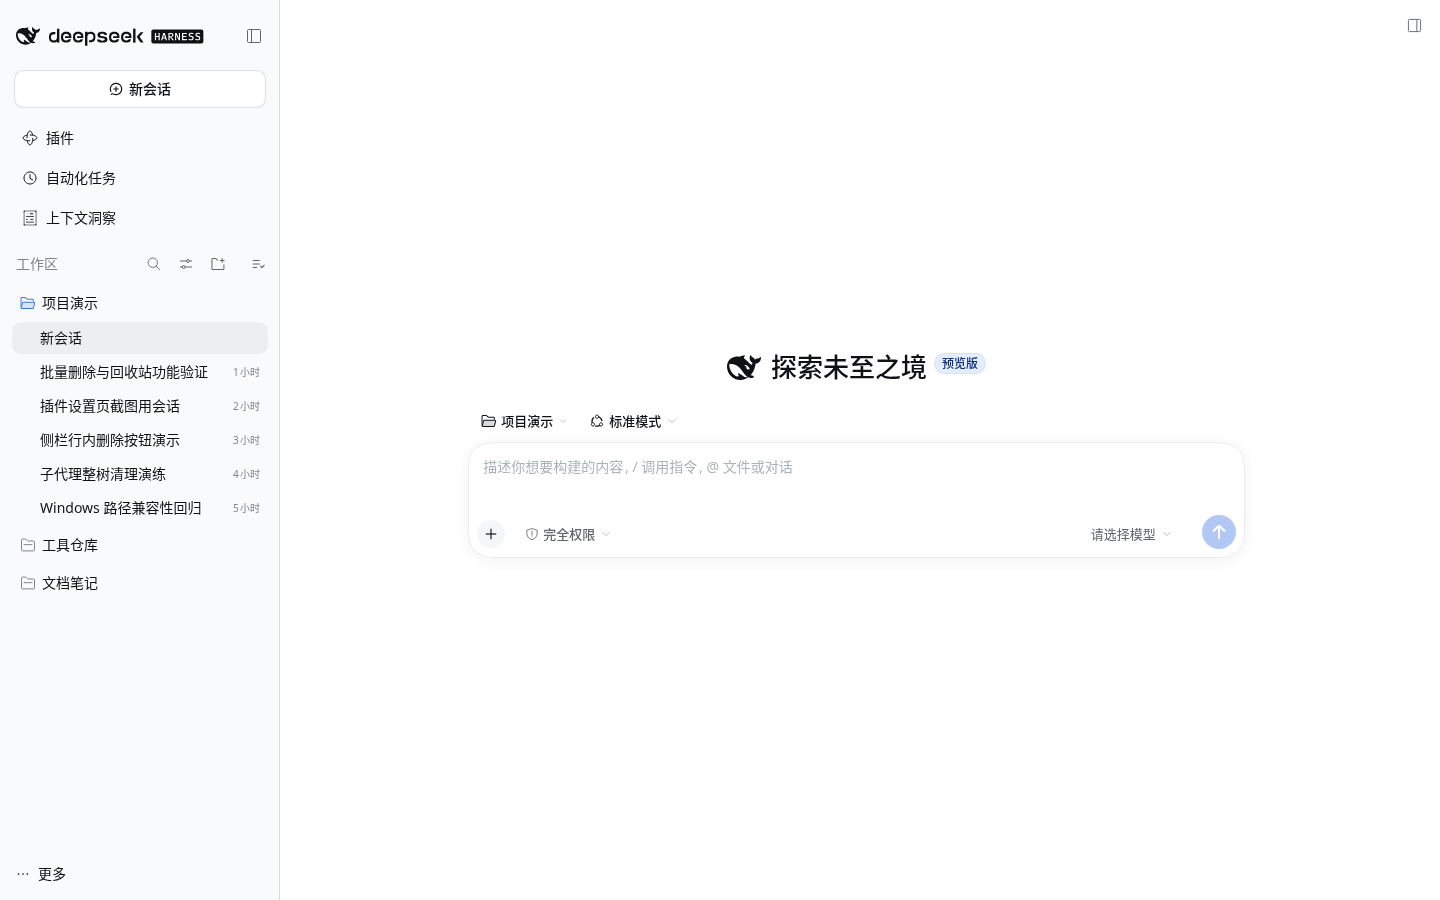
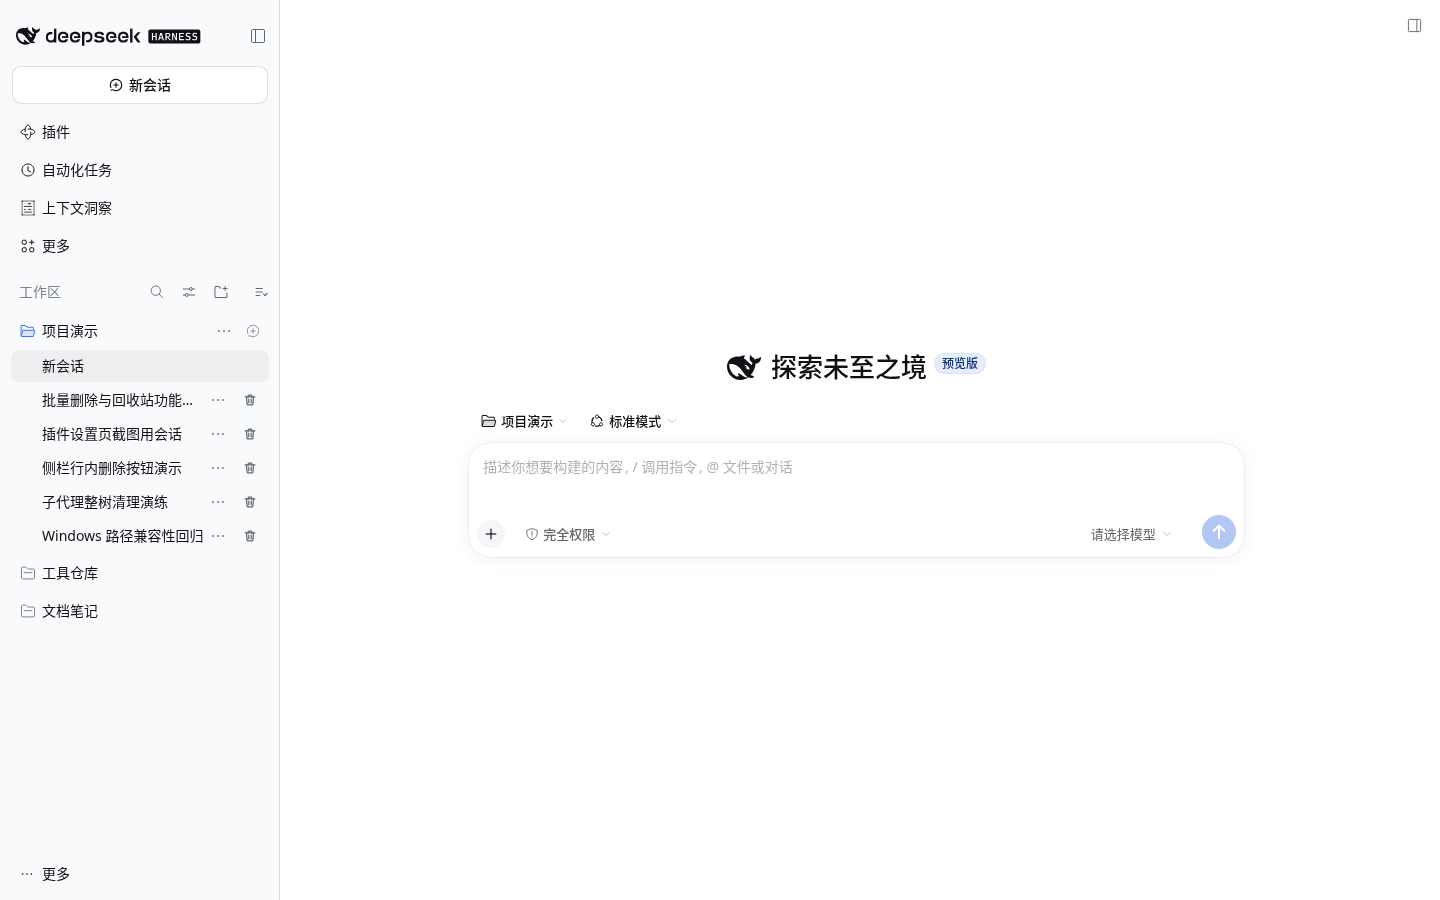
chore(v0.1.9)：适配 DSH 0.2.2-rc.1（兼容性回归、engines 下限、文档与截图）

diff --git a/README.md b/README.md
@@ -87,7 +87,7 @@
 
 ## 安装
 
-插件要求 DSH `0.2.x`（`engines.dsh: ">=0.2.0-rc.1 <0.3.0-0"`）。
+插件要求 DSH `0.2.x`（`engines.dsh: ">=0.2.1-rc.2 <0.3.0-0"`；DSH 用 `includePrerelease` 判定，`0.2.2-rc.1` 等 0.2.x 预发布版均可安装）。
 
 ```bash
 # 从本地目录（开发时推荐，改完文件不用重装）
@@ -163,9 +163,13 @@ $DSH_HOME/session-delete/
 
 ## 兼容性
 
-- 目标：DSH `0.2.x`（开发与验证环境 `0.2.1-rc.2`）。
+- 目标：DSH `0.2.x`。
+- **v0.1.9 已在 `0.2.2-rc.1` 上完整回归**（同时保留 `0.2.1-rc.2` 的历史验证）：
+  - 宿主 API 未破坏：`sessions.liveEntryFor/detachEntered/flush`、`sessionPersistence.locate/list/stat`、`workspaceRegistry`、`session_projcache` 域、`workspace/session-activity|stop` 均可用；
+  - 0.2.2 的「store-owned Session 在摘除后禁止 append」门禁不影响删除顺序（flush → 摘活体 → 搬目录）；
+  - 客户端 UI 重绘（新增 `sidebar.session.row.leading/trailing/hover` 插槽）后，侧栏批量入口、会话行勾选框、行内删除按钮、设置页回收站、还原后列表刷新均通过冒烟。
 - 不兼容 `0.1.x`。
-- 依赖官方内部摘除通道 `liveEntryFor` / `detachEntered`：当前版本存在；缺失时插件降级为「删盘 + 提示需重启宿主」，并写入结果警告。
+- 依赖官方内部摘除通道 `liveEntryFor` / `detachEntered`：`0.2.x` 当前版本存在；缺失且会话仍活着时插件会 409 中止，不会「删盘不摘活体」。
 
 ## 开发与测试
 

diff --git a/CHANGELOG.md b/CHANGELOG.md
@@ -1,5 +1,21 @@
 # 更新日志
 
+## v0.1.9（2026-11-08）
+
+### 适配 DSH 0.2.2-rc.1
+
+- 宿主兼容性核对：`sessions.liveEntryFor/detachEntered/flush`、`sessionPersistence.locate/list/stat`、`workspaceRegistry`（attach/detach/archive/pin/stopSessionActivity）、`session_projcache` 存储域、`workspace/session-activity|stop`、`api-session/removed` 在 0.2.2-rc.1 上均未破坏。
+- DSH 0.2.2 调整了 store-owned Session 的 `append` 门禁（enter 前/摘除后禁止写入）；删除流程「flush → 摘活体 → 搬目录 → 后台残骸补检」已在新版实测，活体删除（146ms）、回收站、还原、重开后重新打开会话均正常。
+- 客户端 UI 重绘（新增 `sidebar.session.row.leading/trailing/hover`）后回归：侧栏批量管理入口、会话行勾选框、行内删除按钮、删除确认弹窗、设置页回收站、还原后侧栏自动刷新全部通过（headless Chrome 临时实例）。
+- `engines.dsh` 下限收紧到实测最低版本：`>=0.2.1-rc.2 <0.3.0-0`（DSH 按 `includePrerelease` 判定，0.2.2-rc.1 可安装）。
+- README 更新兼容性说明；`docs/screenshots/` 在新 UI 上重新生成。
+
+### 验证
+
+- `node --test`：58 项（Linux 54 通过 + 4 个 Windows 专用跳过）。
+- 隔离 E2E、批量管理 UI 冒烟、活体删除/还原/重开 E2E、设置页还原后列表刷新冒烟：全部通过。
+- `client.js` 与源码同步。
+
 ## v0.1.8（2026-11-02）
 
 ### 红蓝对抗后的删除/回收站/还原加固（Issue #17 / PR #18）
